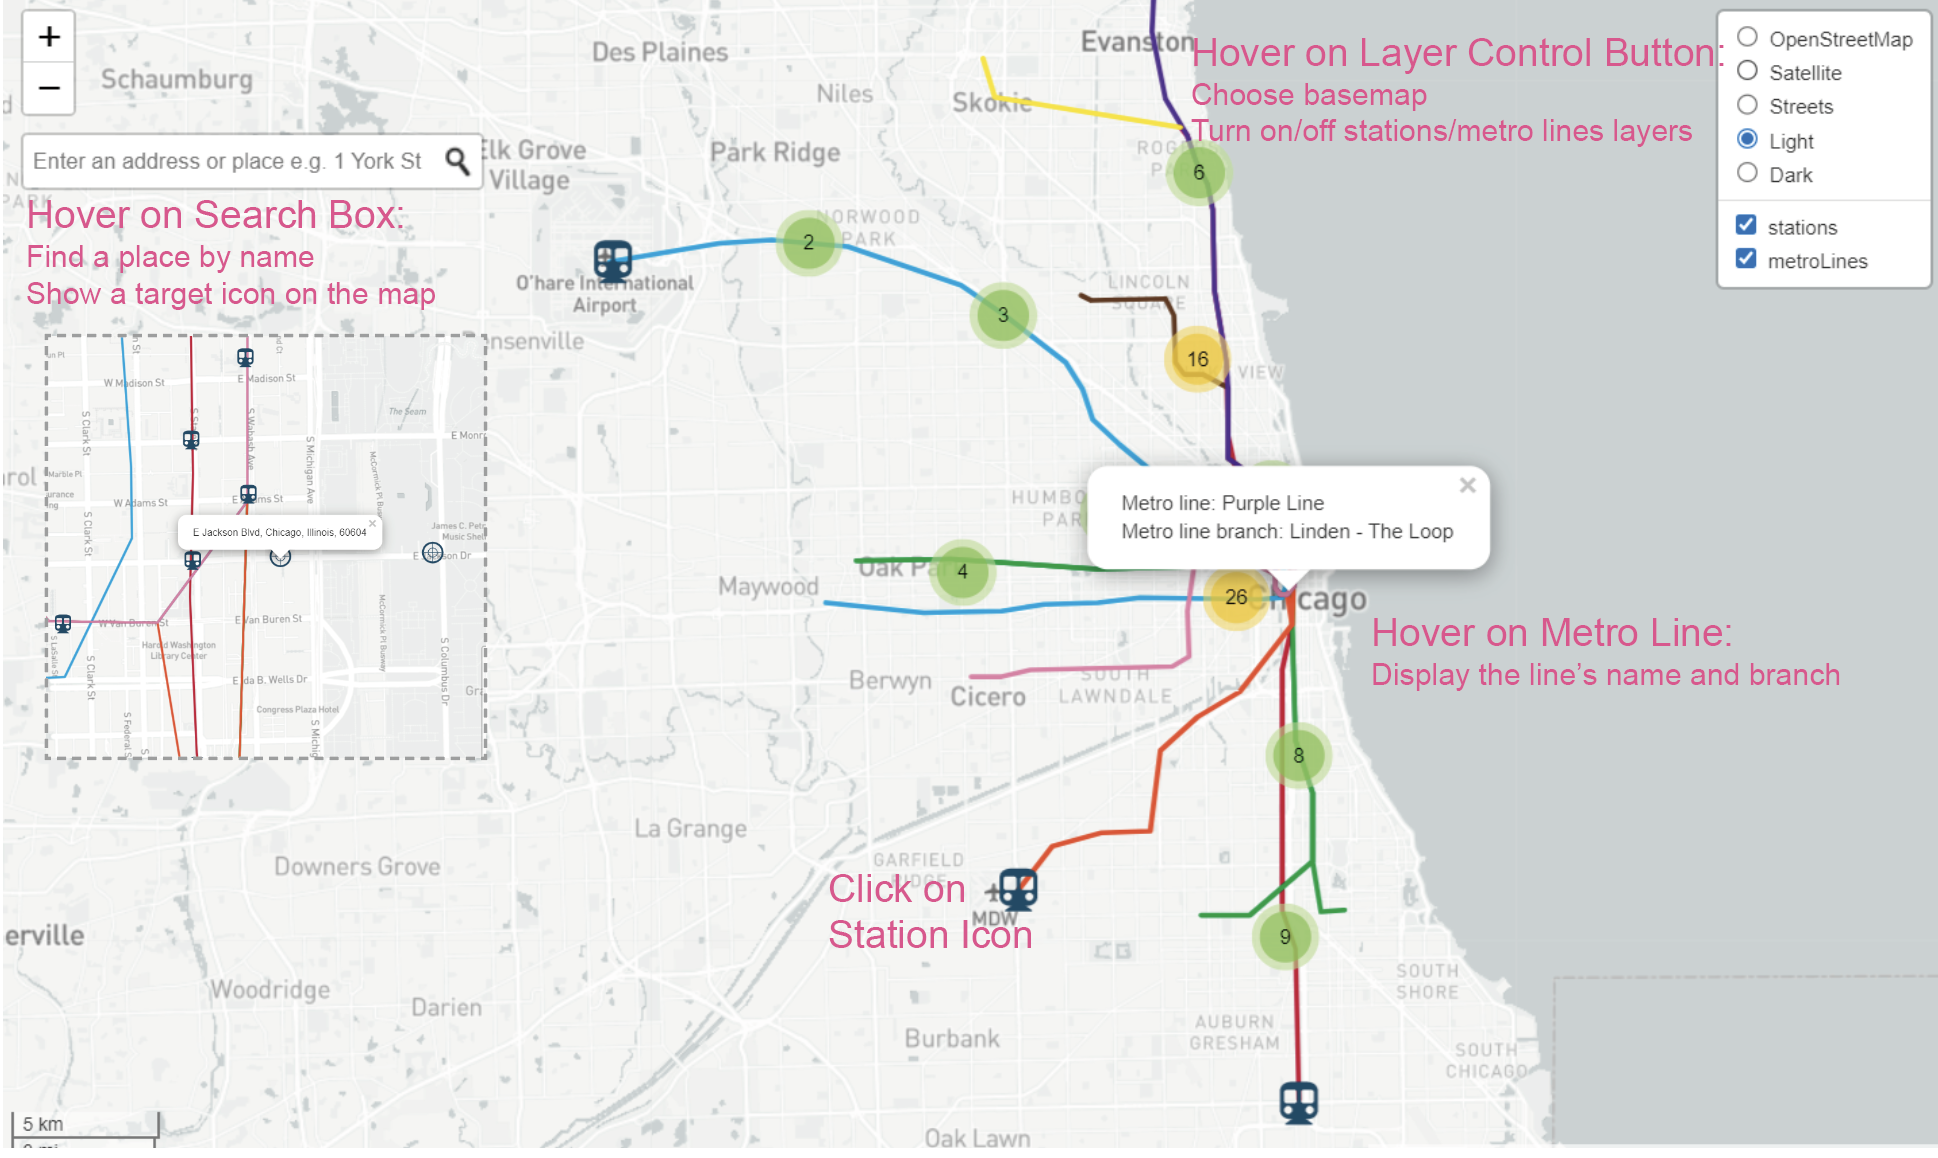
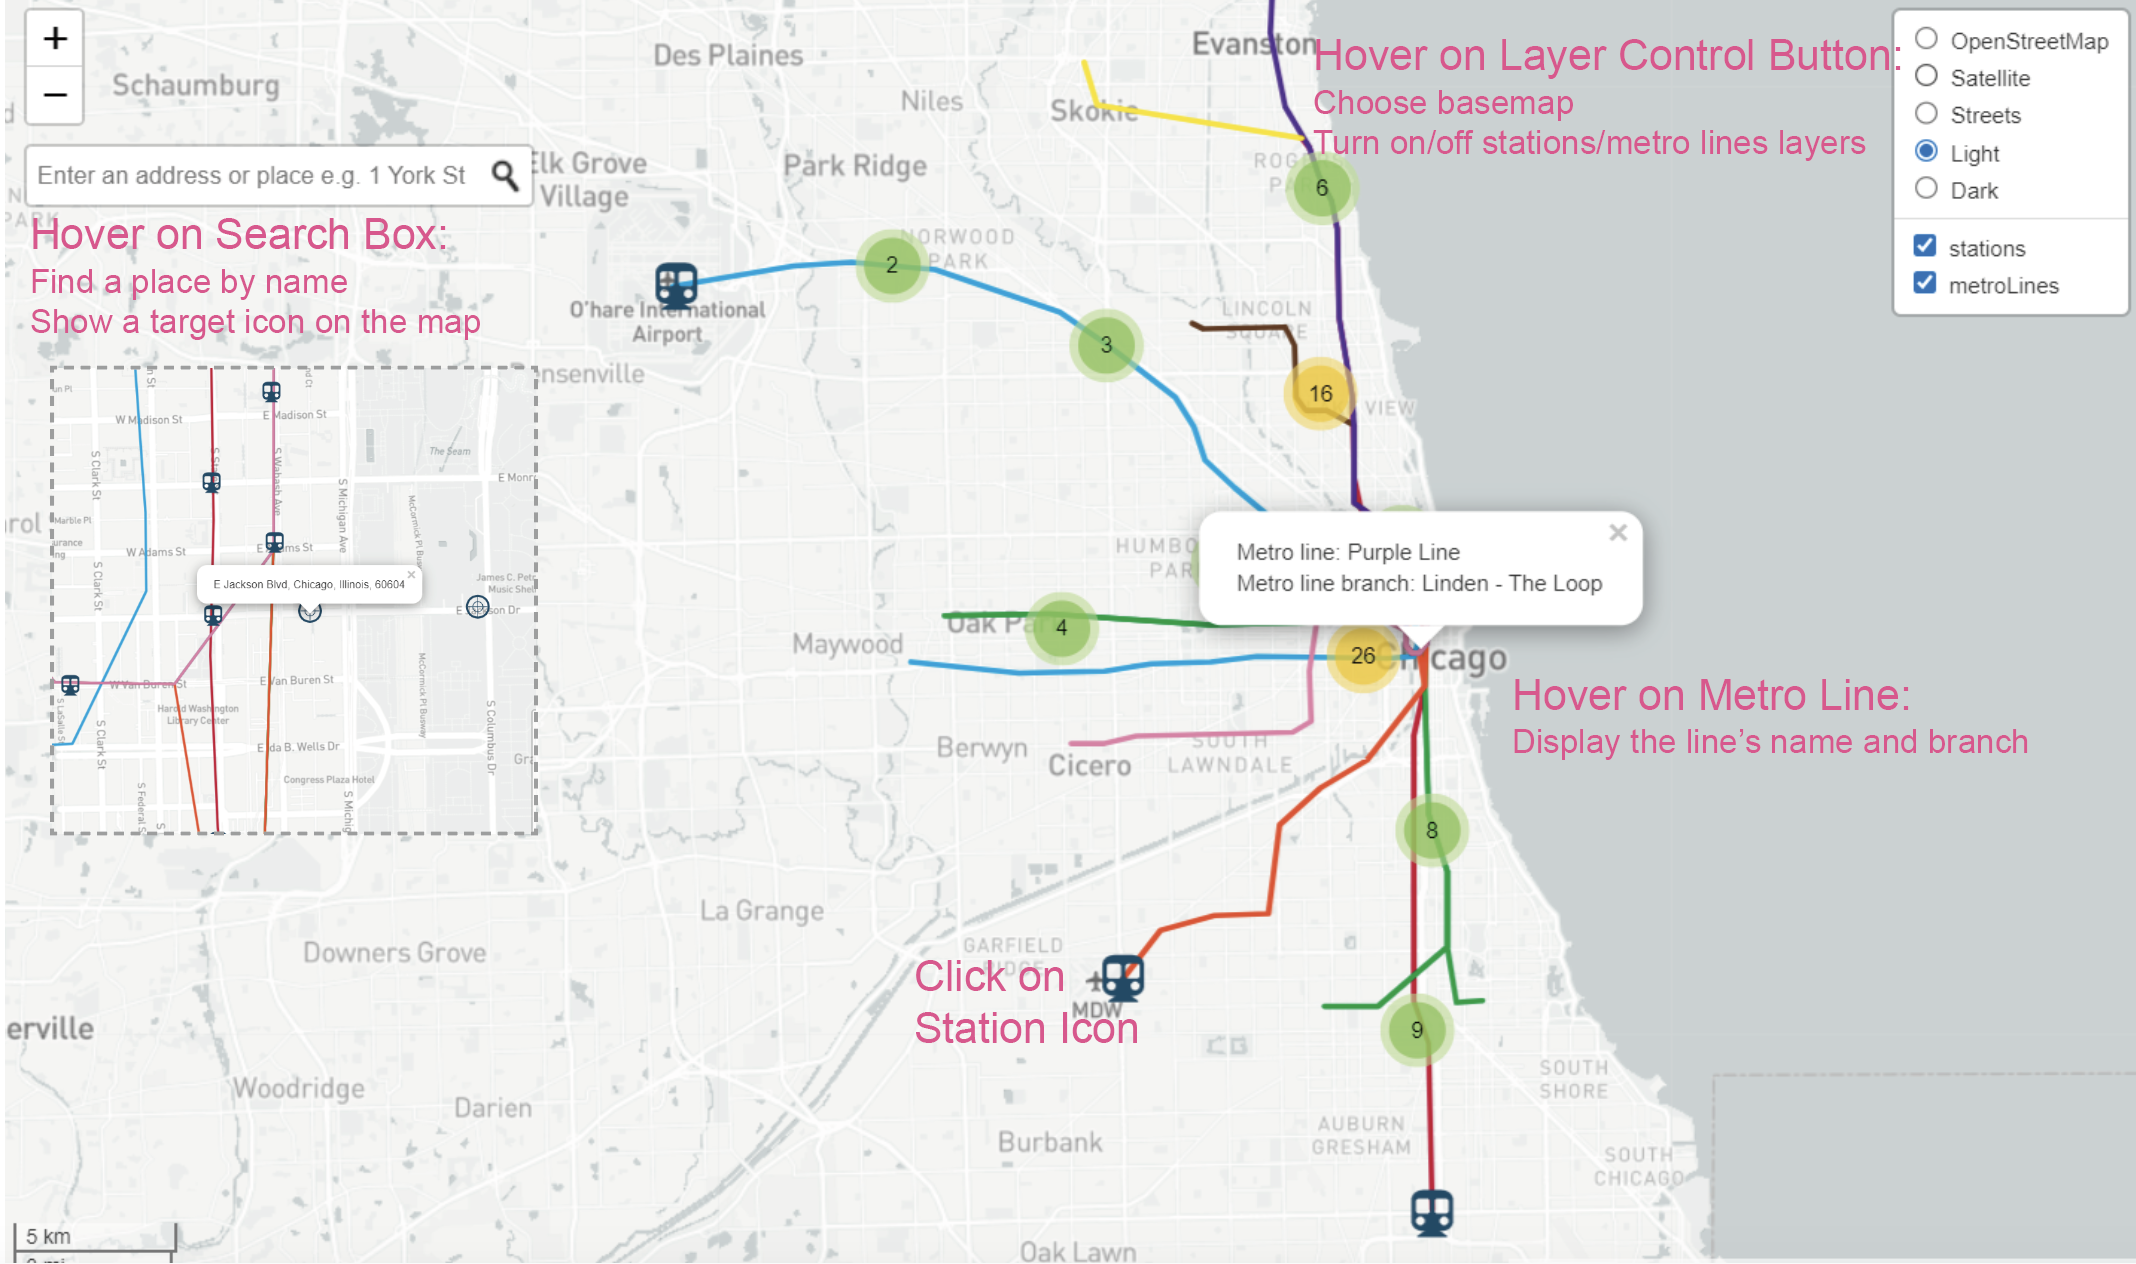
change images

diff --git a/static/css/style.css b/static/css/style.css
@@ -310,6 +310,11 @@ button {
     color: black;
 }
 
+#markdown-content p {
+    margin-top: 30px;
+    margin-bottom: 0px;
+}
+
 #markdown-content h2::after {
     content: "";
     display: block;
@@ -333,6 +338,22 @@ button {
 
 }
 
+#markdown-content h4 {
+    margin-top: 30px;;
+}
+
 #markdown-content img {
     width: 70%;
+    display:flex;
+    text-align: center;
+    /* position: absolute; */
+
+
+            text-align: center;
+            justify-content: center;
+            align-items: center;
+}
+
+#markdown-content img+p {
+    text-align: center;
 }

diff --git a/README.md b/README.md
@@ -25,11 +25,17 @@ Click on the cluster / Click on the "+" on the map to zoom in and display the me
 
 
 #### Zoom In: Station Level
-![Station Page](screenshots/station.png)
+![Station Page](screenshots/stationlevel.png)
 
-Click on the station icon to show the Social Infrastructure Point Of Interest (SIPOI) within 1km buffer from the station, by category. See the details of SIPOI statistics / Built environment information / Download SIPOI data in CSV/Geojson format / Clear map in the side panel.
+Click on the station icon to show the Social Infrastructure Point Of Interest (SIPOI) within 1km buffer from the station, by category. Click on a SIPOI in the map to see details. The statistics and nearby built environment information are displayed in the side panel. Click the "Clear" button to clear map in the side panel.
 
+![Edit in OSM](screenshots/osm-edit.png)
+Click on the pop-up link to see this SIPOI in OpenStreetMap.
 
+![Download CSV](screenshots/download-csv.png)
+![Download Geojson Page](screenshots/download-geojson.png)
+
+Click the buttons to download SIPOI data in CSV/Geojson format.
 
 
 ## Data
